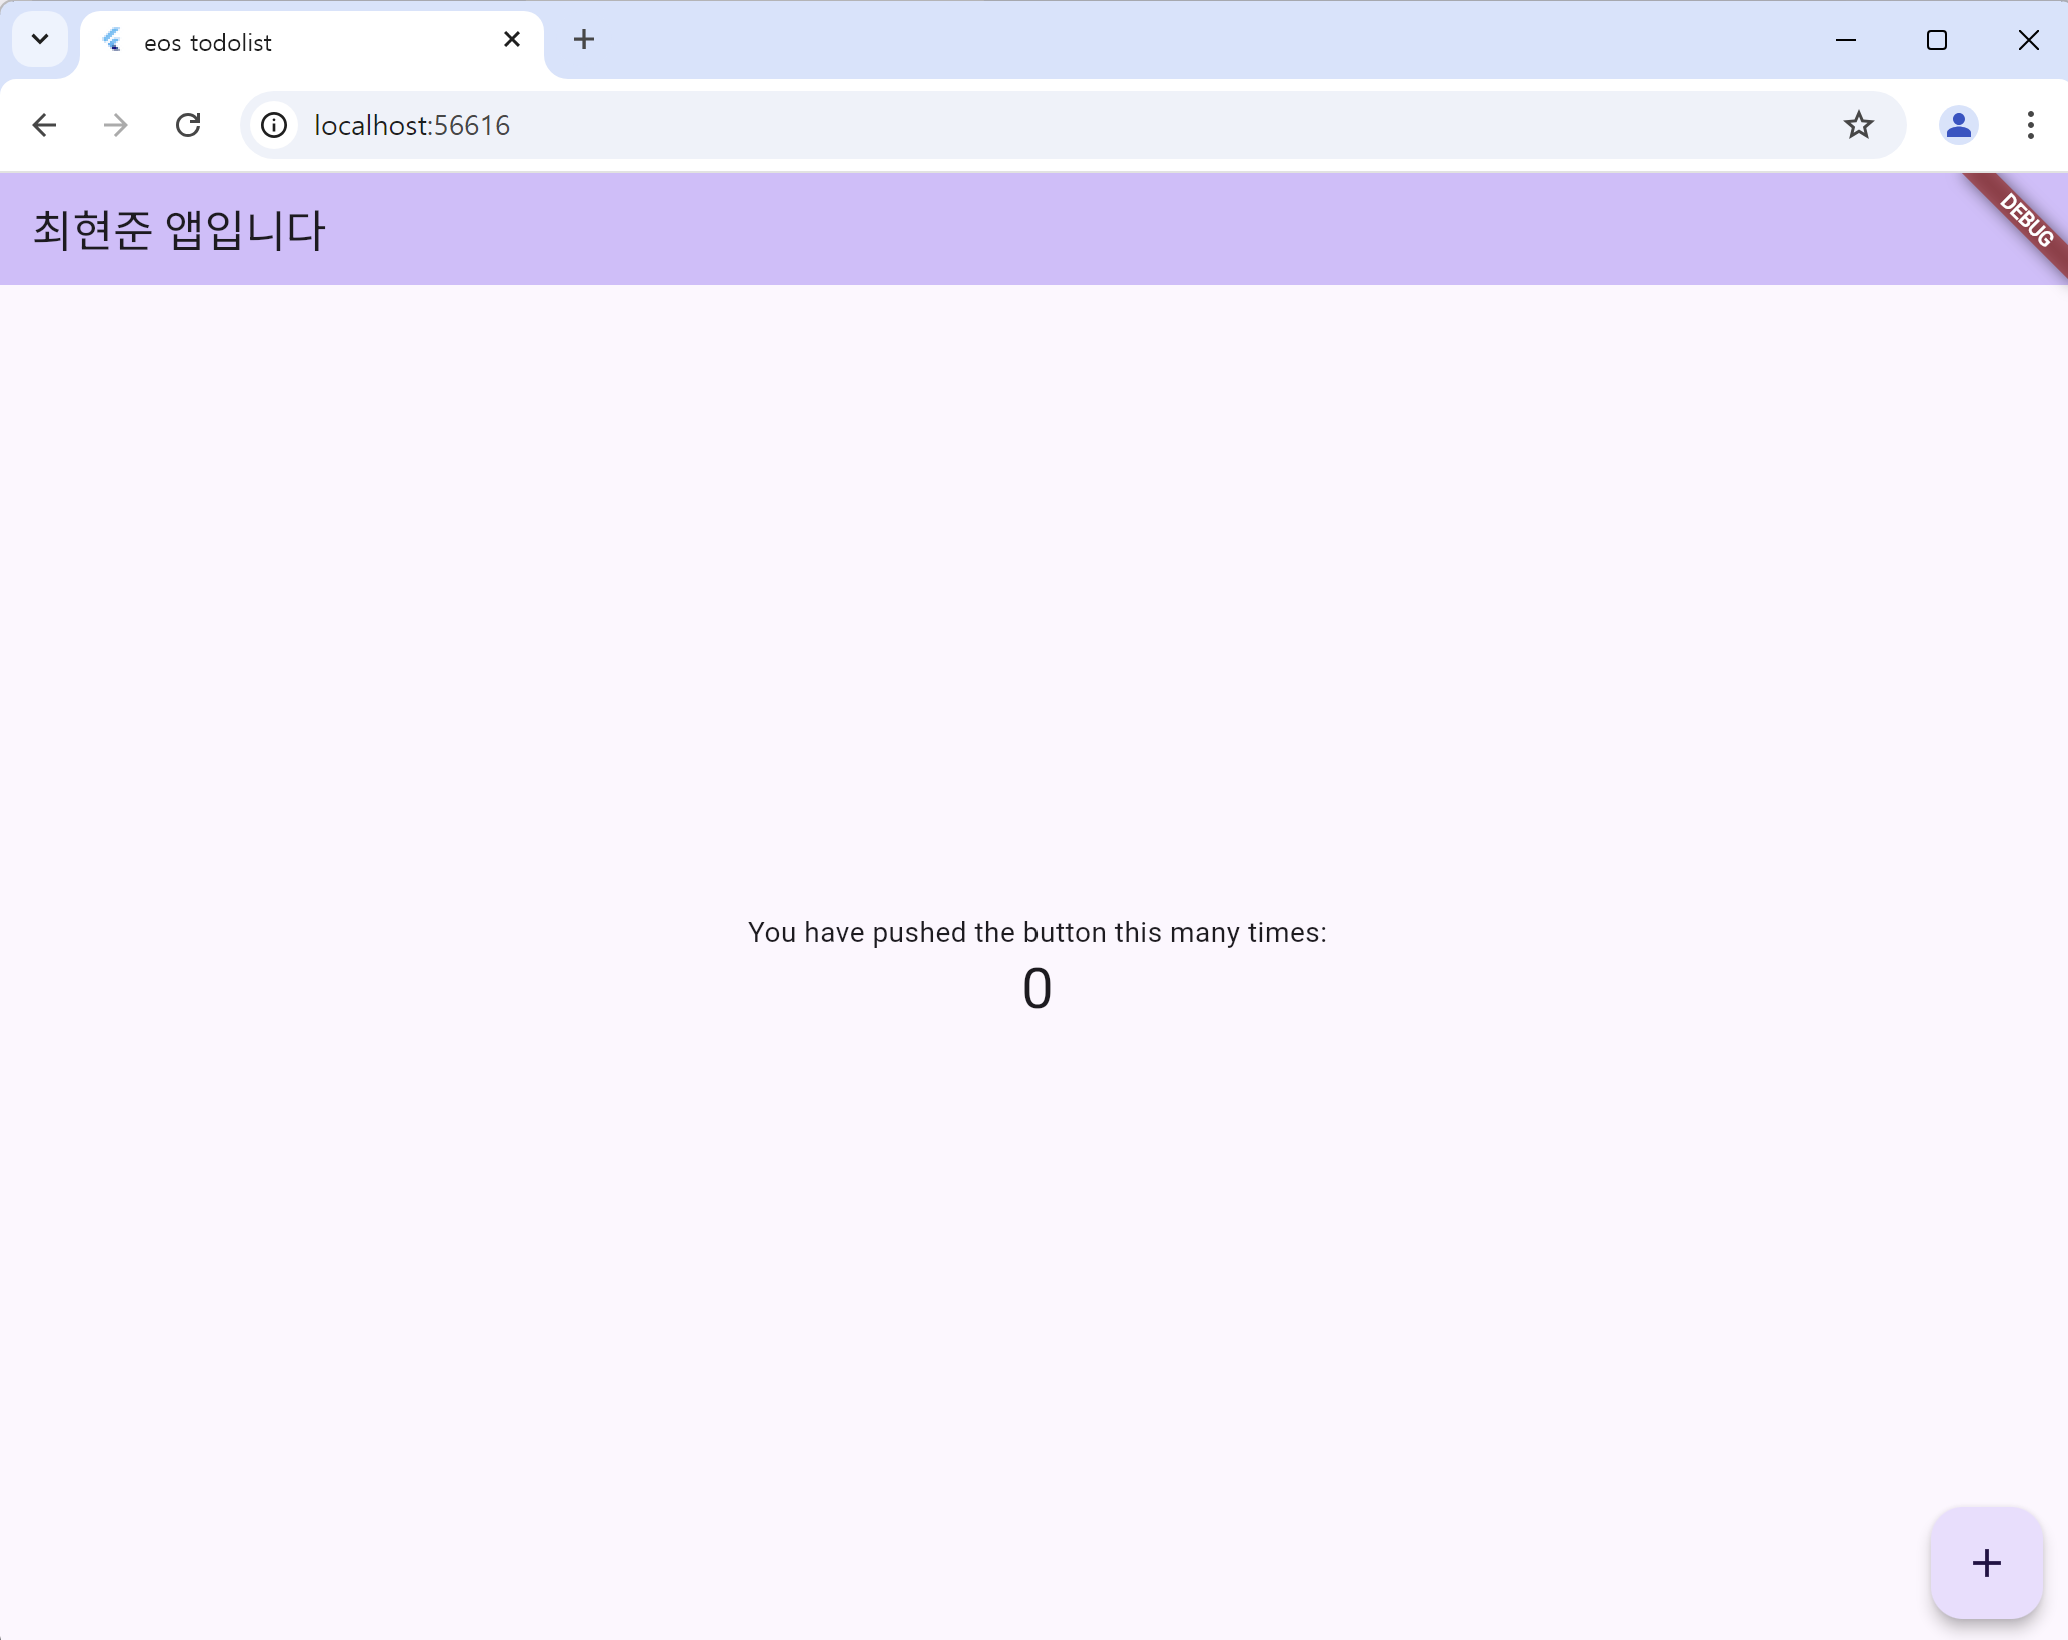
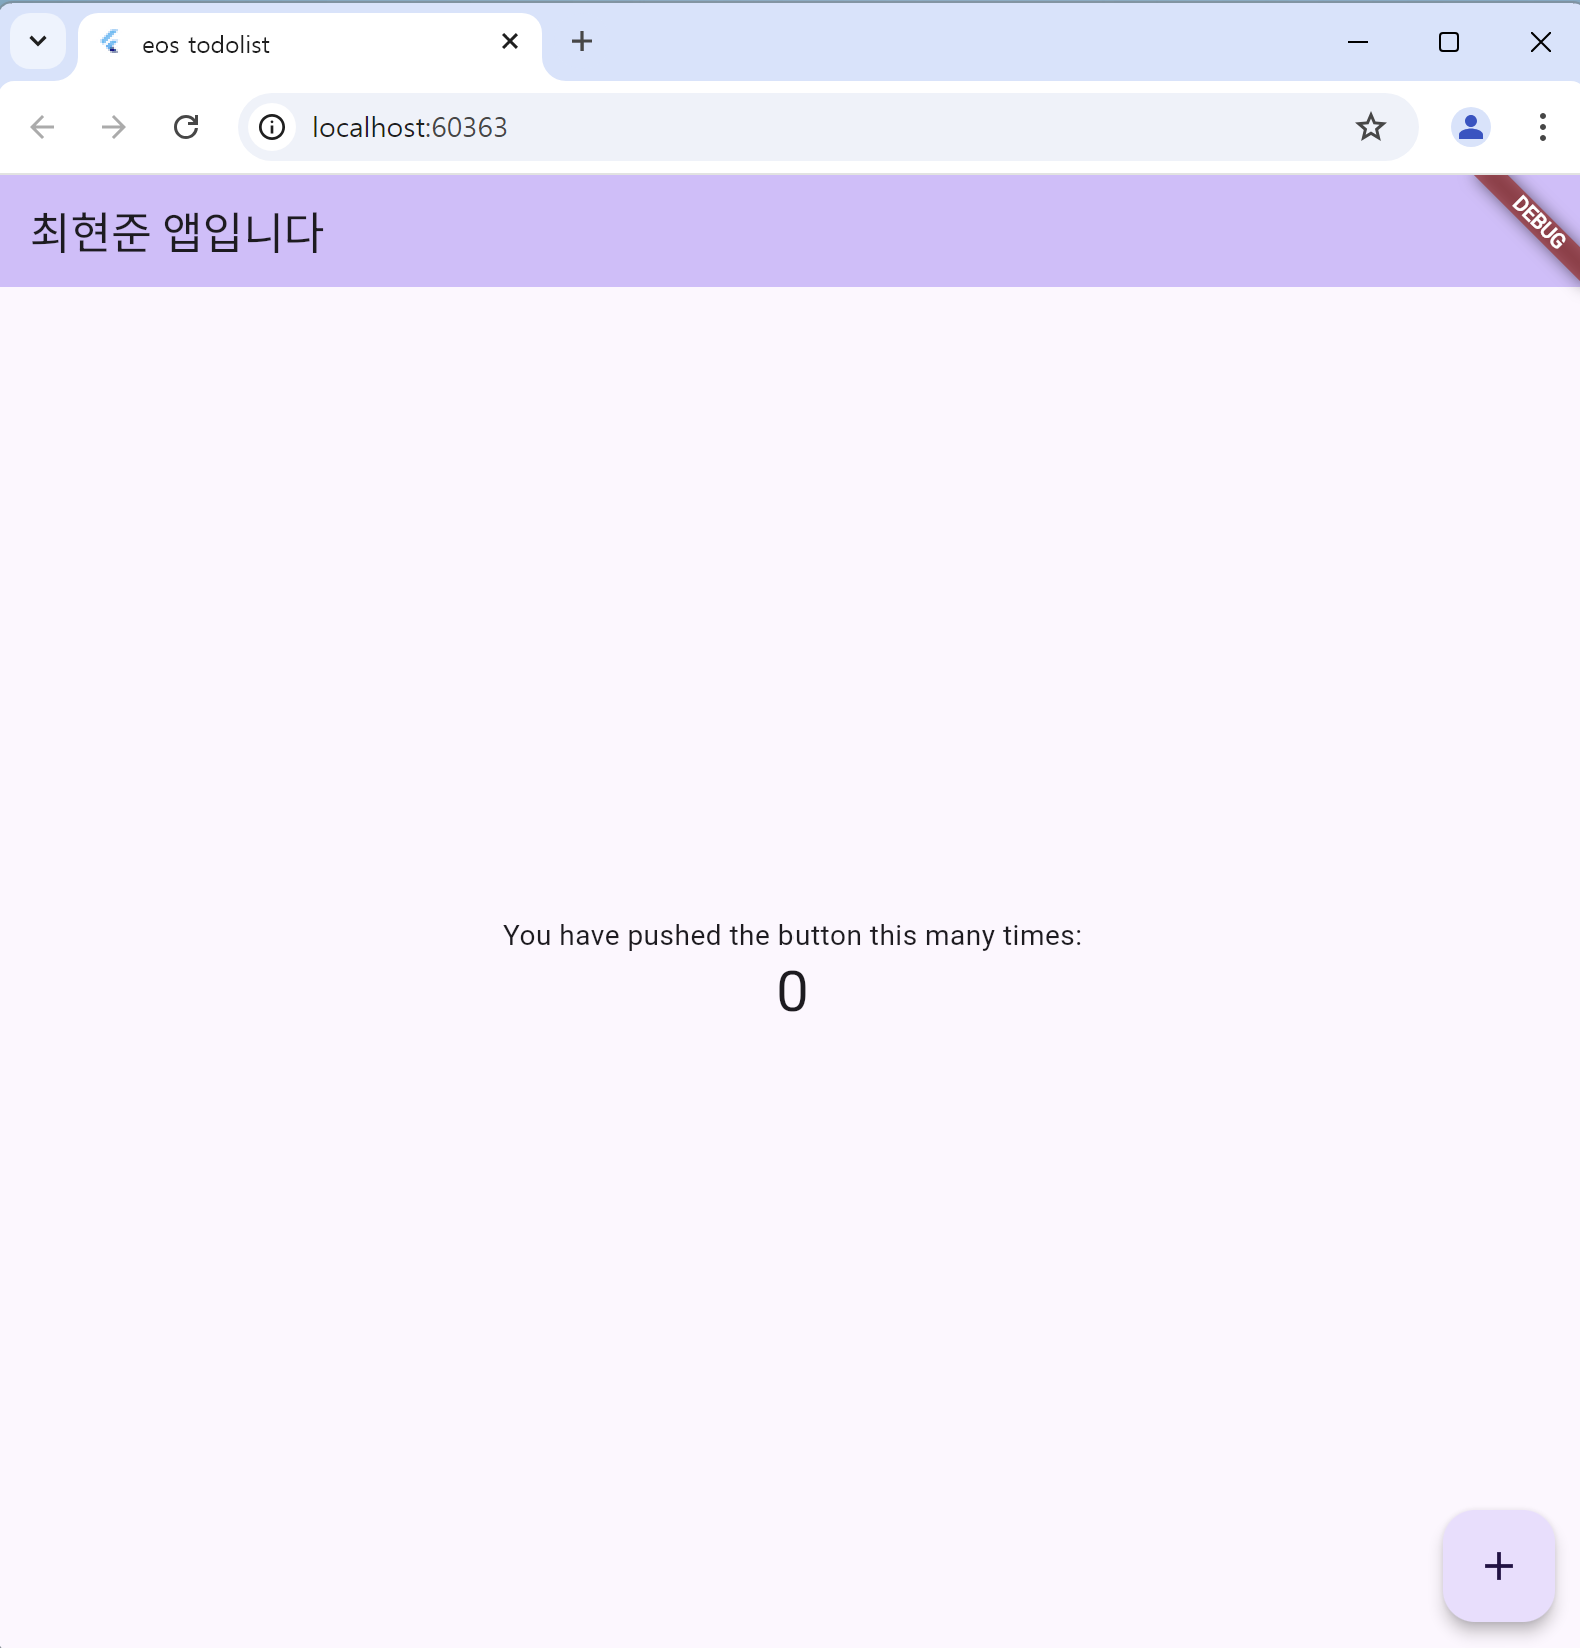
assignment1

diff --git a/lib/main.dart b/lib/main.dart
@@ -31,7 +31,7 @@ class MyApp extends StatelessWidget {
         colorScheme: ColorScheme.fromSeed(seedColor: Colors.deepPurple),
         useMaterial3: true,
       ),
-      home: const MyHomePage(title: '최현준 앱입니다.'),
+      home: const MyHomePage(title: '최현준 앱입니다'),
     );
   }
 }
